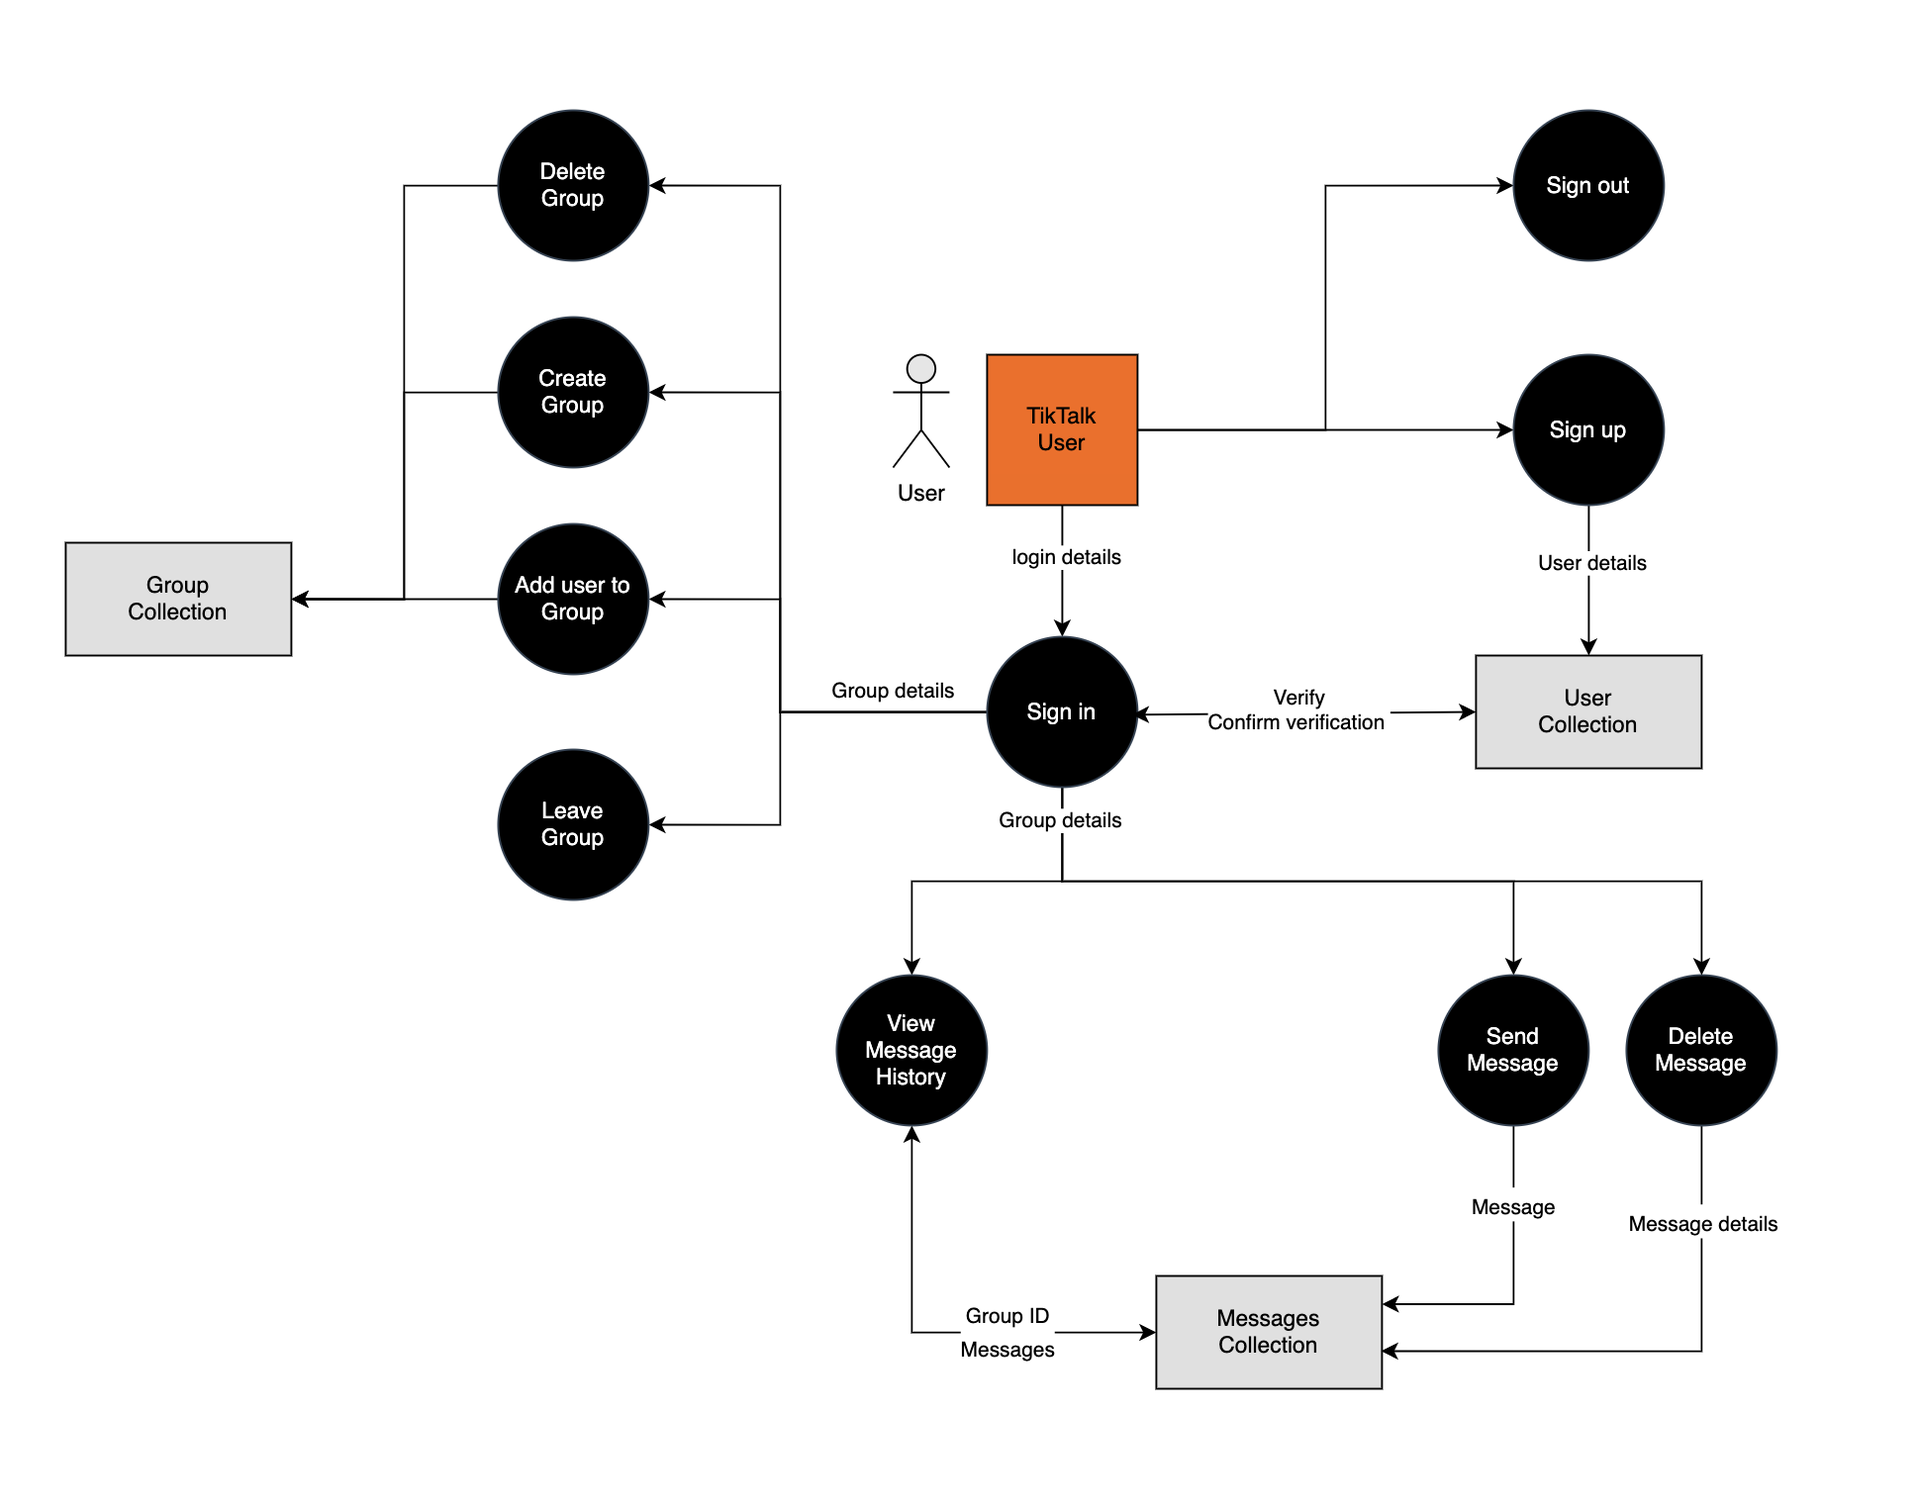
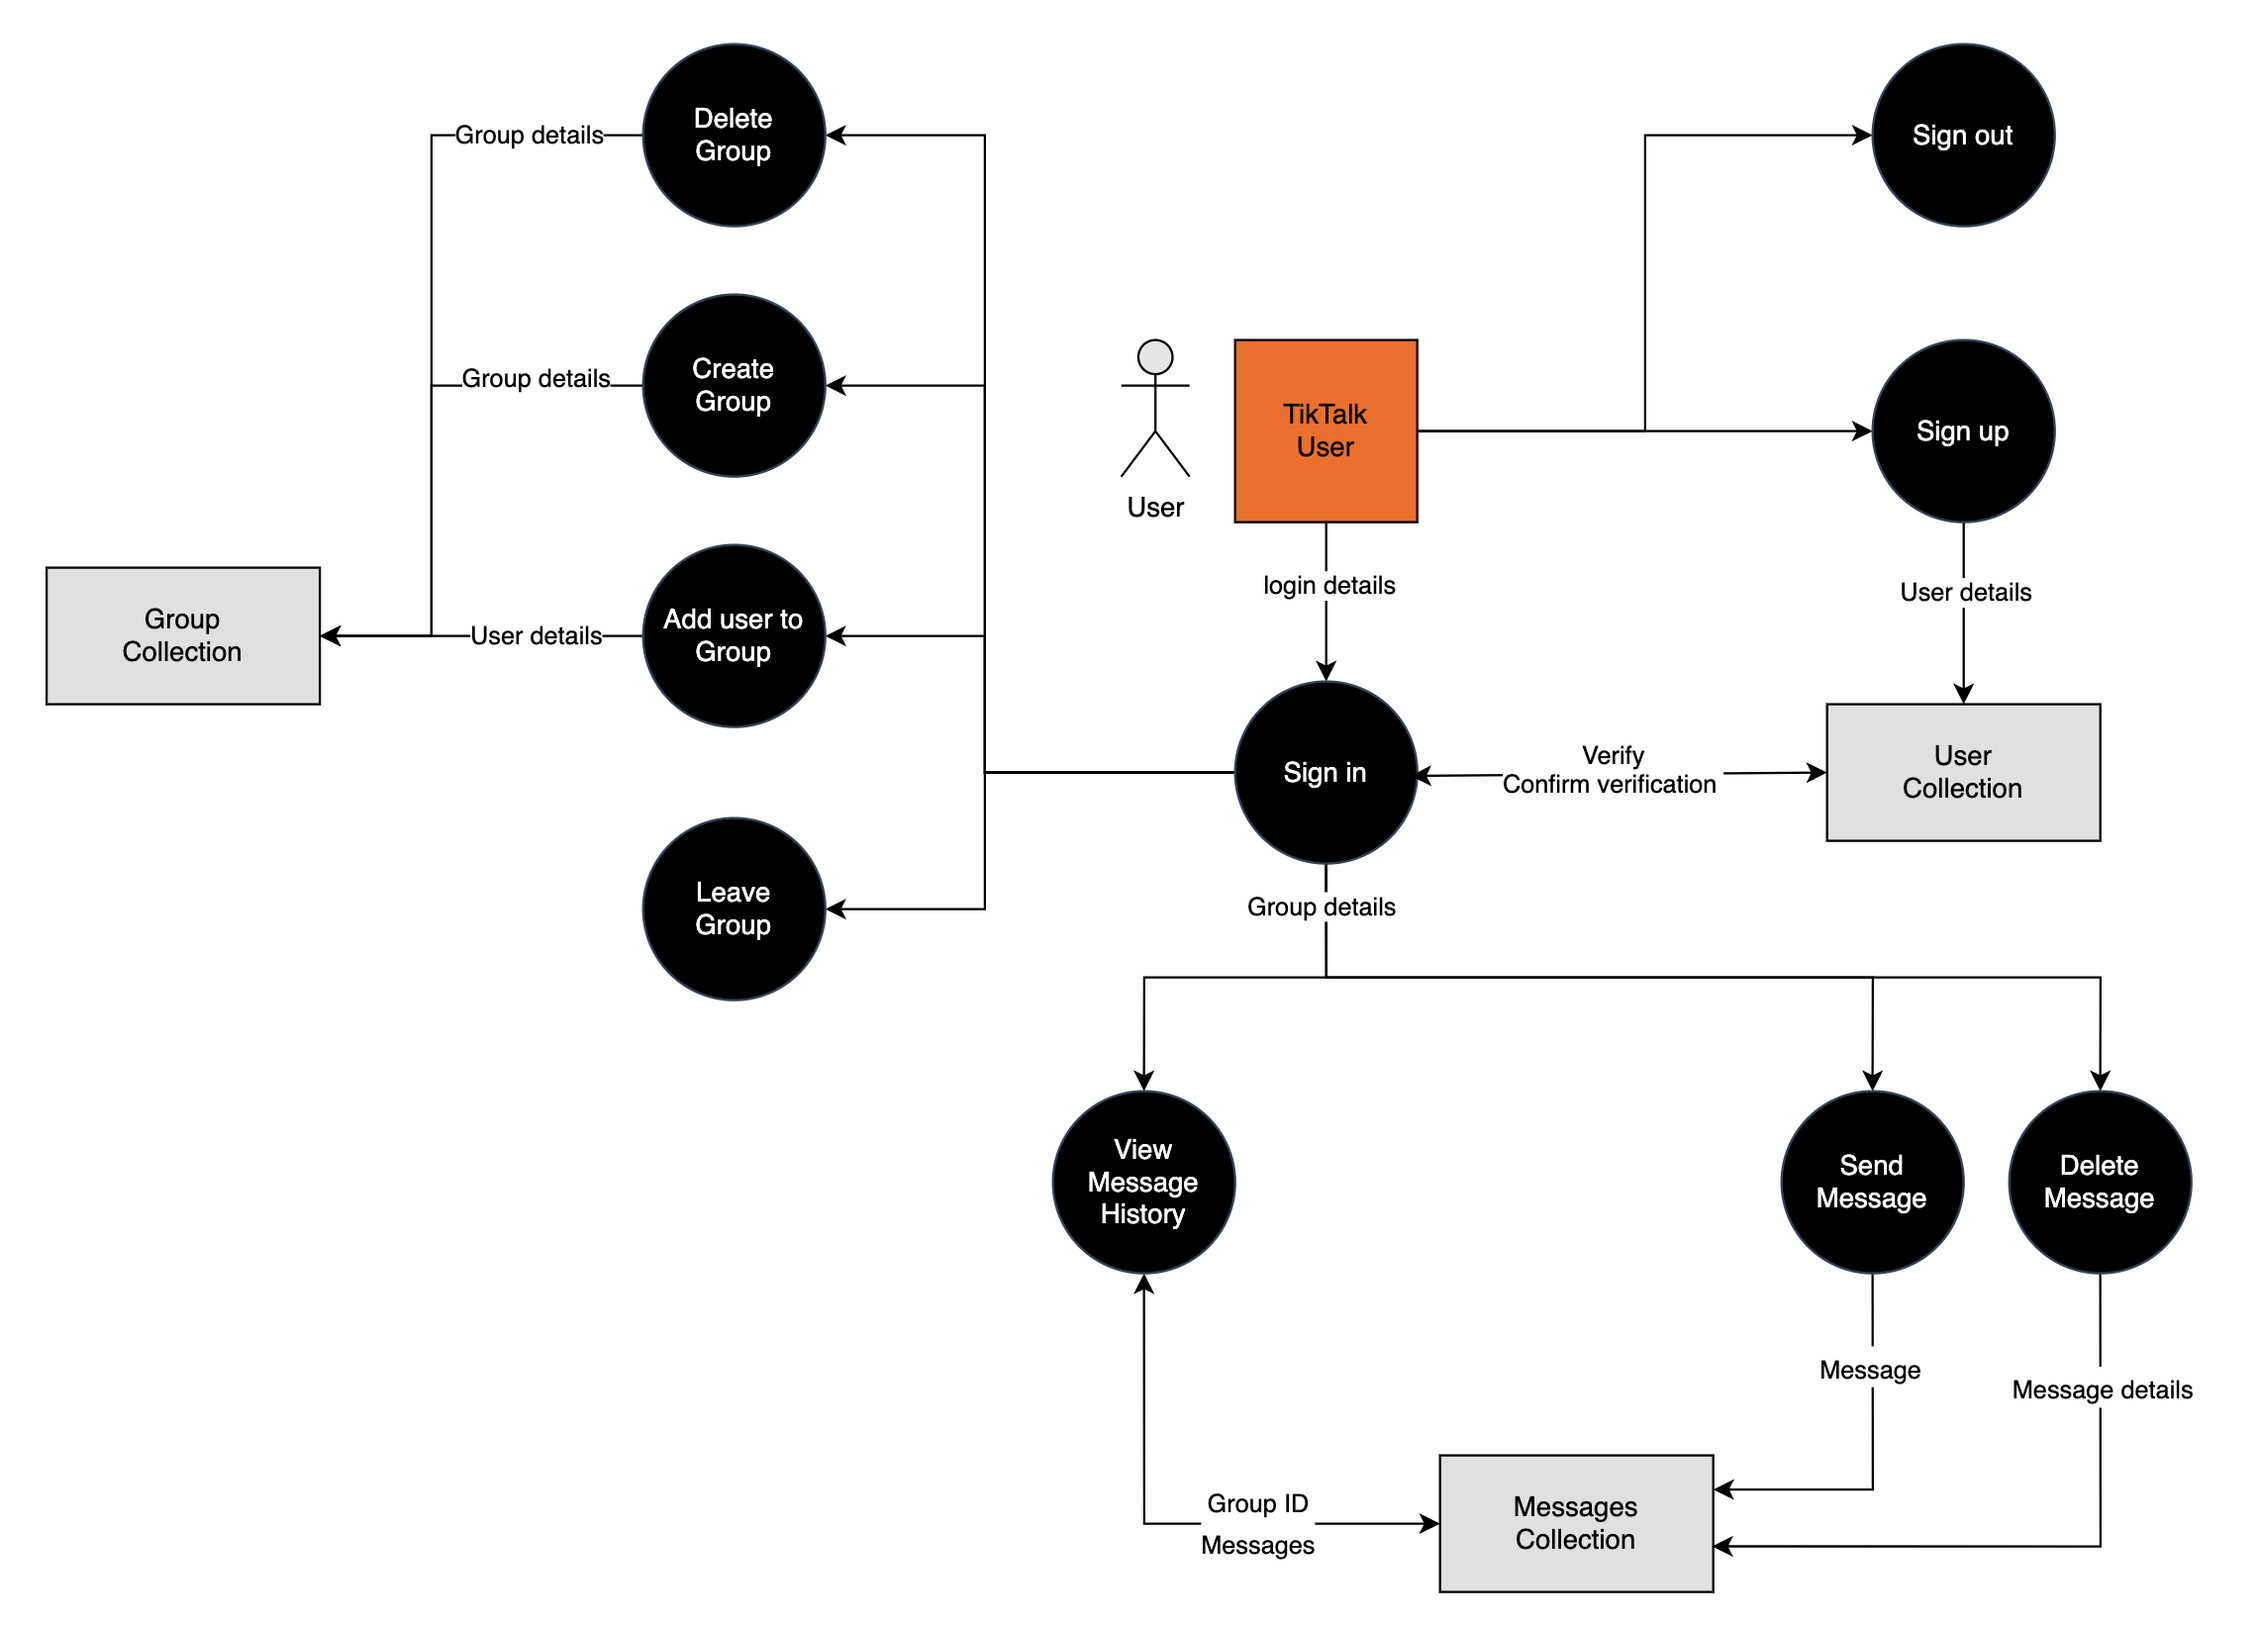
R2:update dataflow diagram

diff --git a/README.md b/README.md
@@ -79,6 +79,8 @@ The TikTalk development team believes in building applications for everyone. Alt
 
 - As a user, I want to be able to create a group, so that I can chat with multiple friends at the same time.
 
+- As a user, I want to be able to add friends to my groups so that I can chat with multiple friends at the same time.
+
 - As a user, I want to be able to delete a group, so that I can manage group and keep the chat app tidy.
 
 - As a user, I want to be able to leave a group, so that I no longer receive messages from that group.
